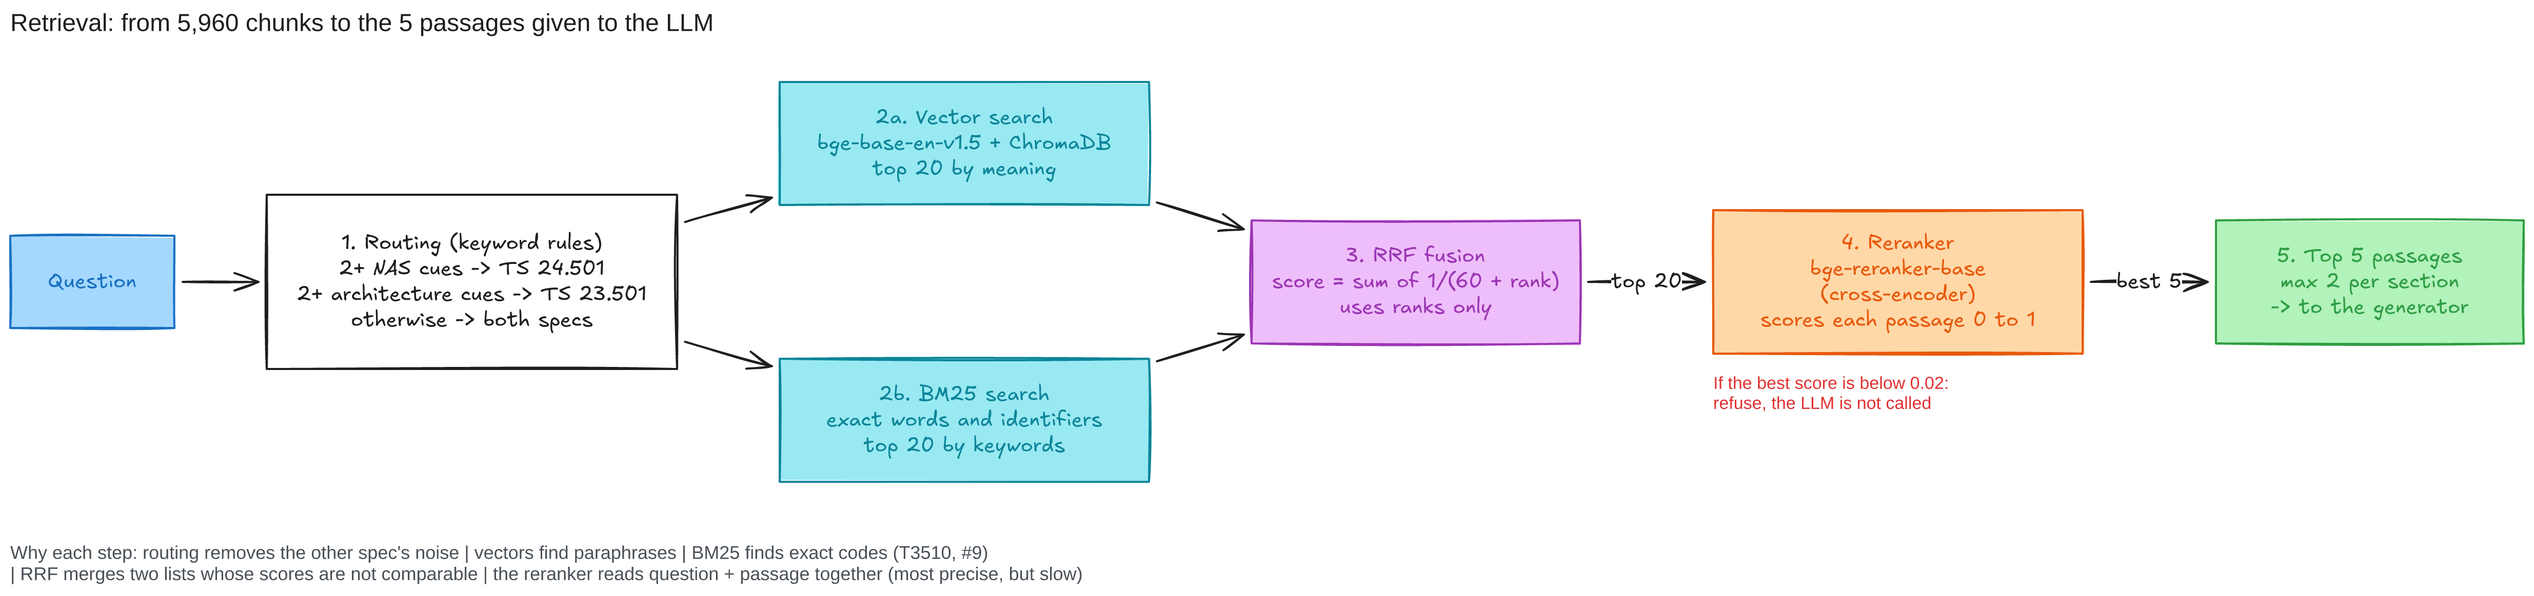
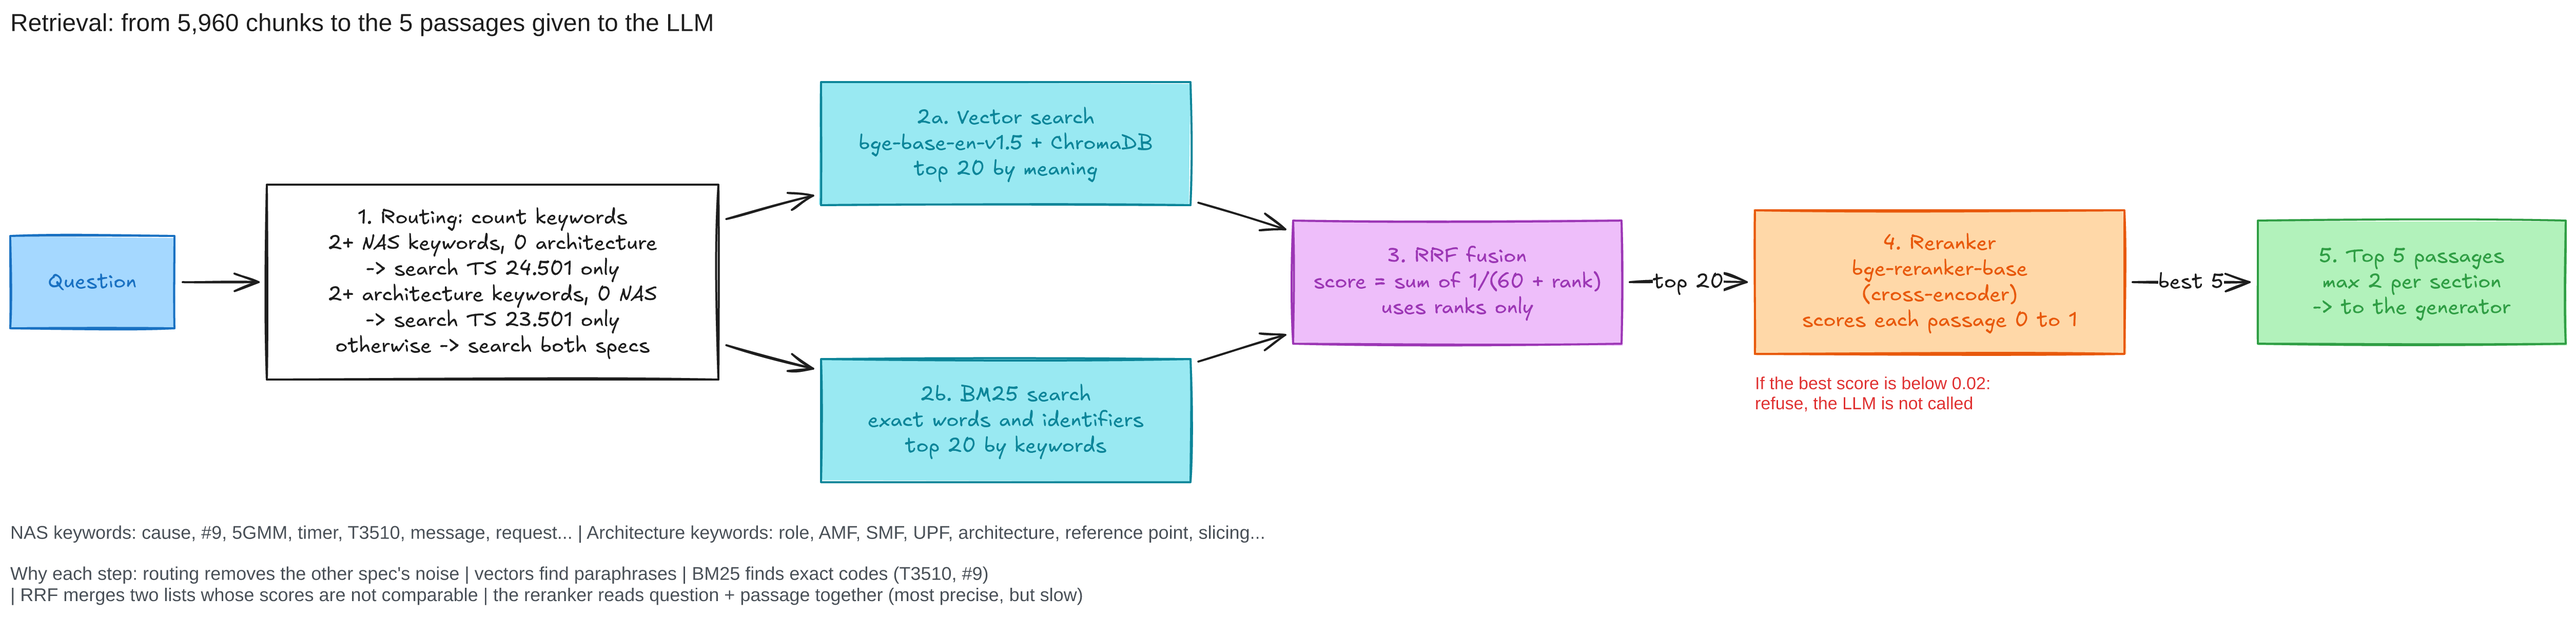
Clarify routing rule in retrieval diagram and doc

diff --git a/docs/HOW-IT-WORKS.md b/docs/HOW-IT-WORKS.md
@@ -83,7 +83,7 @@ BM25 is a classic keyword ranking: rare words count more than common ones. Our t
 
 | Step | What it does | Key setting |
 |---|---|---|
-| **1. Routing** | Keyword rules decide which spec to search. NAS cues (cause, #9, T3510, message, 5GMM…) → TS 24.501. Architecture cues (role, AMF, slicing, reference point…) → TS 23.501. | A single spec only with **≥ 2 cues for it and 0 for the other**; otherwise both |
+| **1. Routing** | Counts keywords in the question. NAS keywords (cause, #9, T3510, message, 5GMM…) point to TS 24.501; architecture keywords (role, AMF, slicing, reference point…) point to TS 23.501. | One spec only with **2+ keywords for it and 0 for the other**; otherwise both (e.g. *cause #9 … 5GMM* → 24.501; *role of the AMF* → 23.501; registration + NAS messages + AMF → both) |
 | **2. Hybrid search** | Vector search and BM25 each return their top candidates | **20 + 20** |
 | **3. RRF fusion** | Merges the two lists using **only ranks**, because cosine and BM25 scores aren't comparable: `score = Σ 1/(60 + rank)` | k = 60 |
 | **4. Reranker** | A **cross-encoder** reads the question and each passage **together** and scores relevance from 0 to 1 | top 20 rescored |
